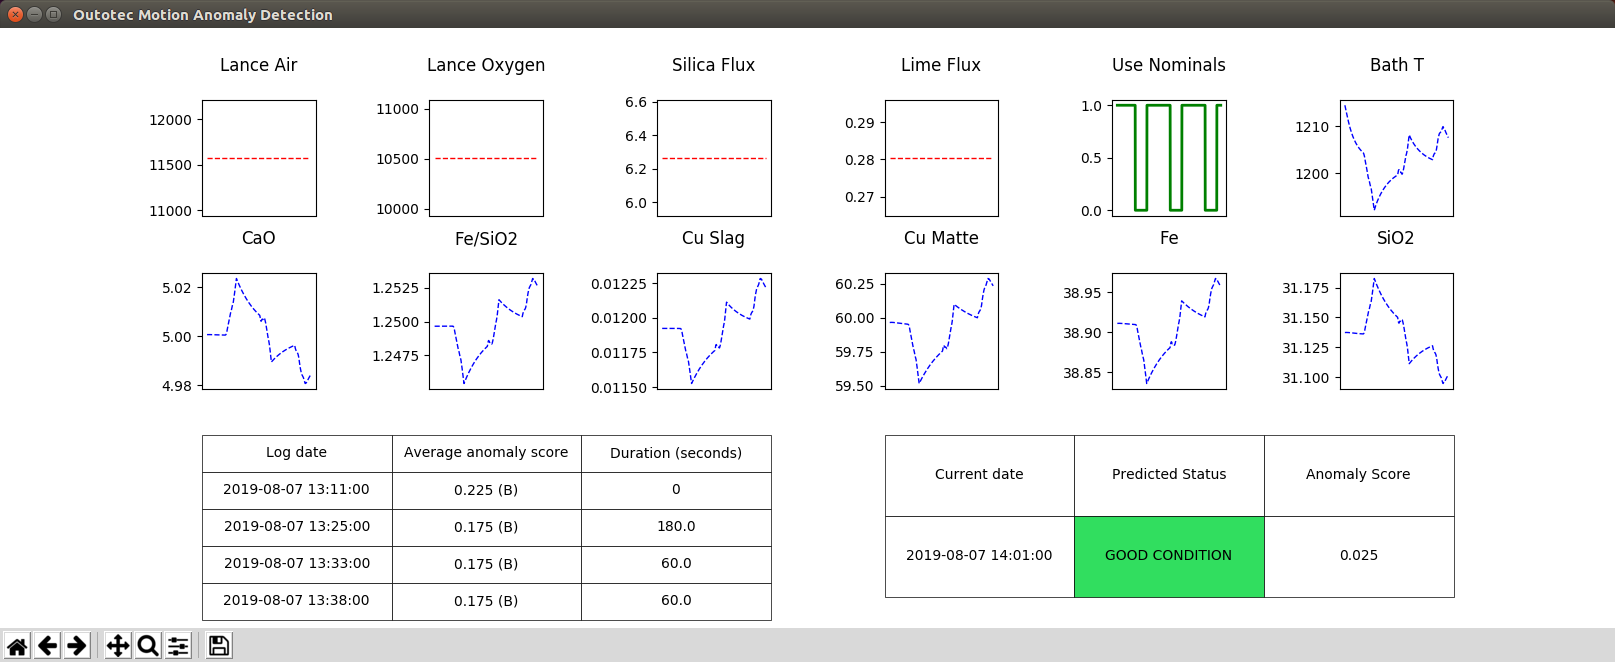
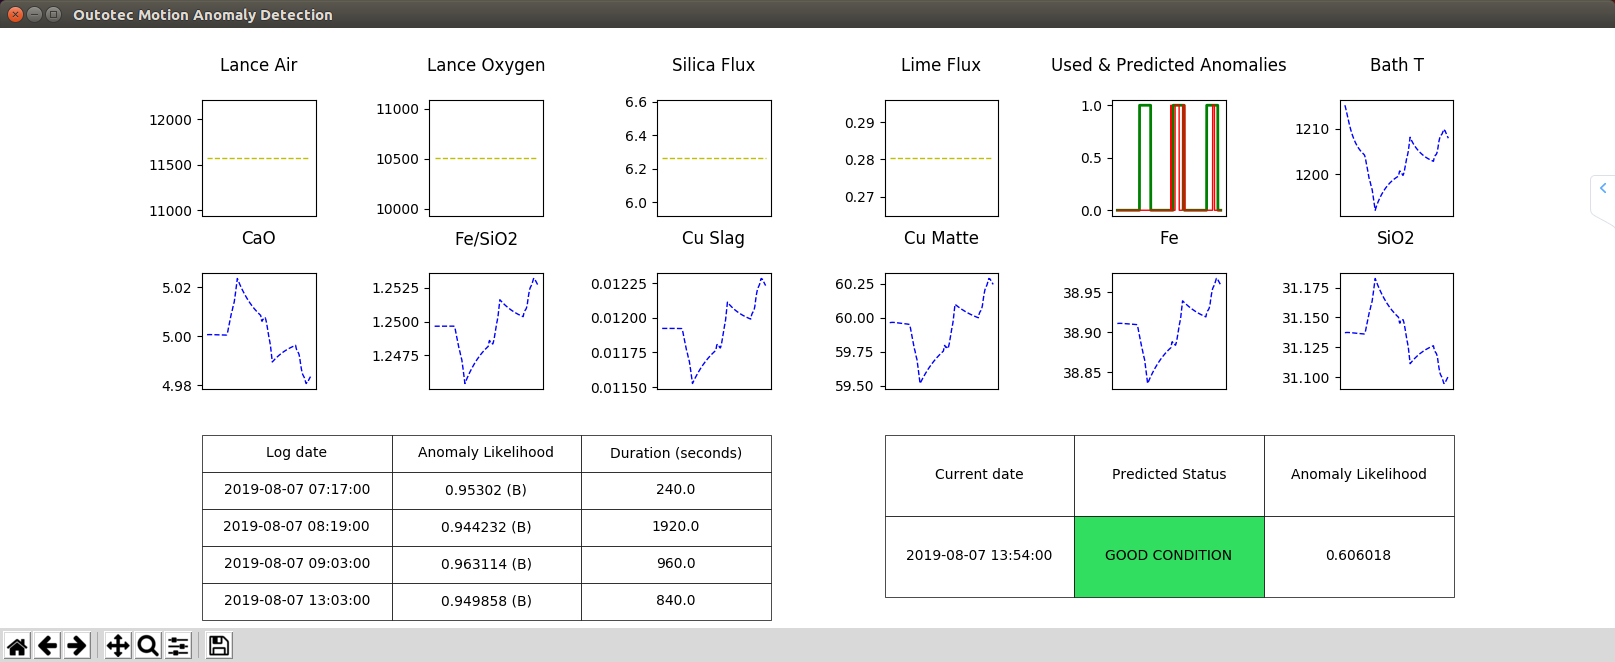
Update ChemistHTM V1.3

diff --git a/ChemicalHTM.py b/ChemicalHTM.py
@@ -73,6 +73,14 @@ def createTemporalAnomaly_chemical(recordParams, spatialParams, temporalParams, 
     network.link("spatialPoolerRegion", "temporalPoolerRegion", "UniformLink", "")
     network.link("temporalPoolerRegion", "spatialPoolerRegion", "UniformLink", "",
                  srcOutput="topDownOut", destInput="topDownIn")
+    
+    # Add the AnomalyLikelihoodRegion on top of the TMRegion
+    network.addRegion("anomalyLikelihoodRegion", "py.AnomalyLikelihoodRegion", json.dumps({}))
+    network.link("temporalPoolerRegion", "anomalyLikelihoodRegion", "UniformLink",
+                 "", srcOutput="anomalyScore", destInput="rawAnomalyScore")
+    network.link("sensor", "anomalyLikelihoodRegion", "UniformLink", "",
+                 srcOutput="sourceOut", destInput="metricValue")    
+
 
     spatialPoolerRegion = network.regions["spatialPoolerRegion"]
 
@@ -165,7 +173,7 @@ def plot_chemical_data(Bath_T, CaO, Fe_SiO2, Cu_Slag, Cu_Matte, Fe, SiO2, date, 
         return Bath_T, CaO, Fe_SiO2, Cu_Slag, Cu_Matte, Fe, SiO2, date
 
     
-def plot_input_data(lance_air, lance_oxy, silica_flux, lime_flux, use_anomalies, date, buffer_size=800):
+def plot_input_data(lance_air, lance_oxy, silica_flux, lime_flux, use_anomalies, date, buffer_size=899):
     if len(lance_air) > buffer_size and len(lance_oxy) > buffer_size and len(silica_flux) > buffer_size and len(lime_flux) > buffer_size and len(use_anomalies) > buffer_size:
         new_lance_air = lance_air[-buffer_size:]
         new_lance_oxy = lance_oxy[-buffer_size:]
@@ -234,7 +242,7 @@ def evaluation(use_nominals, status_records):
     
 def runNetwork(network, date1, input_data_file):
     sensorRegion = network.regions["sensor"]
-    temporalPoolerRegion = network.regions["temporalPoolerRegion"]
+    anomalyLikelihoodRegion = network.regions["anomalyLikelihoodRegion"]
 
     # output data
     date = []
@@ -292,7 +300,7 @@ def runNetwork(network, date1, input_data_file):
     
     for i in xrange(_NUM_RECORDS):
         network.run(1)
-        anomalyScore = temporalPoolerRegion.getOutputData("anomalyScore")[0]
+        anomalyLikelihood = anomalyLikelihoodRegion.getOutputData("anomalyLikelihood")[0]
         pre1_1 = sensorRegion.getOutputData("sourceOut")[0]
         pre2_1 = sensorRegion.getOutputData("sourceOut")[1]
         pre3_1 = sensorRegion.getOutputData("sourceOut")[2]
@@ -315,9 +323,7 @@ def runNetwork(network, date1, input_data_file):
         plt_silica_flux.append(silica_flux[i])
         plt_lime_flux.append(lime_flux[i])
         plt_use_anomalies.append(use_anomalies[i])
-        
-        average_anomalyScore = anomalyScore
-        
+                
         date.append(date1[i])
 
 #        print "Date: ", date1[i], "  Chemical Anomaly Score:", anomalyScore
@@ -329,7 +335,7 @@ def runNetwork(network, date1, input_data_file):
 #        print "        Fe:       \t", pre6_1
 #        print "        SiO2:     \t", pre7_1
 
-        if average_anomalyScore < 0.12:
+        if anomalyLikelihood < 0.85:
 #            print "        \033[1;42m GOOD CONDITION \033[0m"
             previous_result = 'G'
             status_records.append('G')
@@ -337,9 +343,9 @@ def runNetwork(network, date1, input_data_file):
             status_table_content[0][0] = date1[i]
             status_table_content[0][1] = 'GOOD CONDITION'
             status_table_color[0][1] = '#31de5f'
-            status_table_content[0][2] = anomalyScore
+            status_table_content[0][2] = anomalyLikelihood
             status_table_color[0][2] = 'w'
-        elif average_anomalyScore > 0.12 and average_anomalyScore < 0.165:
+        elif anomalyLikelihood >=0.85 and anomalyLikelihood < 0.94:
 #            print "        \033[1;43m WARNING CAUTION \033[0m"
             previous_result = 'W'
             status_records.append('W')
@@ -347,7 +353,7 @@ def runNetwork(network, date1, input_data_file):
             status_table_content[0][0] = date1[i]
             status_table_content[0][1] = 'WARNING CAUTION'
             status_table_color[0][1] = '#ff9e36'
-            status_table_content[0][2] = anomalyScore
+            status_table_content[0][2] = anomalyLikelihood
             status_table_color[0][2] = 'w'
         else:
             if previous_result == 'D':
@@ -357,31 +363,31 @@ def runNetwork(network, date1, input_data_file):
 
             if table_content[0][0] == ' ' and contineous_flag == False:
                 table_content[0][0] = date1[i]
-                table_content[0][1] = str(average_anomalyScore) + ' (B)'
+                table_content[0][1] = str(anomalyLikelihood) + ' (B)'
                 table_content[0][2] = float(0)
             elif table_content[1][0] == ' ' and contineous_flag == False:
                 table_content[1][0] = date1[i]
-                table_content[1][1] = str(average_anomalyScore) + ' (B)'
+                table_content[1][1] = str(anomalyLikelihood) + ' (B)'
                 table_content[1][2] = float(0)
             elif table_content[2][0] == ' ' and contineous_flag == False:
                 table_content[2][0] = date1[i]
-                table_content[2][1] = str(average_anomalyScore) + ' (B)'
+                table_content[2][1] = str(anomalyLikelihood) + ' (B)'
                 table_content[2][2] = float(0)
             elif table_content[3][0] == ' ' and contineous_flag == False:
                 table_content[3][0] = date1[i]
-                table_content[3][1] = str(average_anomalyScore) + ' (B)'
+                table_content[3][1] = str(anomalyLikelihood) + ' (B)'
                 table_content[3][2] = float(0)         
             elif table_content[1][0] == ' ' and contineous_flag == True:
                 table_content[0][0] = date1[i]
-                table_content[0][1] = str(average_anomalyScore) + ' (B)'
+                table_content[0][1] = str(anomalyLikelihood) + ' (B)'
                 table_content[0][2] += seconds_difference(date1[i-1], date1[i])
             elif table_content[2][0] == ' ' and contineous_flag == True:
                 table_content[1][0] = date1[i]
-                table_content[1][1] = str(average_anomalyScore) + ' (B)'
+                table_content[1][1] = str(anomalyLikelihood) + ' (B)'
                 table_content[1][2] += seconds_difference(date1[i-1], date1[i])
             elif table_content[3][0] == ' ' and contineous_flag == True:
                 table_content[2][0] = date1[i]
-                table_content[2][1] = str(average_anomalyScore) + ' (B)'
+                table_content[2][1] = str(anomalyLikelihood) + ' (B)'
                 table_content[2][2] += seconds_difference(date1[i-1], date1[i])
             elif table_content[0][0] != ' ' and table_content[1][0] != ' ' and table_content[2][0] != ' ' and table_content[3][0] != ' ' and contineous_flag == False:
                 table_content[0][0] = table_content[1][0]
@@ -397,11 +403,11 @@ def runNetwork(network, date1, input_data_file):
                 table_content[2][2] = table_content[3][2]
                 
                 table_content[3][0] = date1[i]
-                table_content[3][1] = str(average_anomalyScore) + ' (B)'
+                table_content[3][1] = str(anomalyLikelihood) + ' (B)'
                 table_content[3][2] = 0
             elif table_content[0][0] != ' ' and table_content[1][0] != ' ' and table_content[2][0] != ' ' and table_content[3][0] != ' ' and contineous_flag == True:                
                 table_content[3][0] = date1[i]
-                table_content[3][1] = str(average_anomalyScore) + ' (B)'
+                table_content[3][1] = str(anomalyLikelihood) + ' (B)'
                 table_content[3][2] += seconds_difference(date1[i-1], date1[i])   
 #            print "        \033[1;41m DANGEROUS CONDITION \033[0m"
             previous_result = 'D'
@@ -410,7 +416,7 @@ def runNetwork(network, date1, input_data_file):
             status_table_content[0][0] = date1[i]
             status_table_content[0][1] = 'BAD CONDITION'
             status_table_color[0][1] = '#db4439'
-            status_table_content[0][2] = anomalyScore
+            status_table_content[0][2] = anomalyLikelihood
             status_table_color[0][2] = 'w'
 #        print "\n"        
 
@@ -485,7 +491,7 @@ def runNetwork(network, date1, input_data_file):
         table = ax13.table(
                 cellText = table_content,
                 cellLoc = 'center',
-                colLabels = ['Log date', 'Average anomaly score', 'Duration (seconds)'],
+                colLabels = ['Log date', 'Anomaly Likelihood', 'Duration (seconds)'],
                 bbox=[0, -0.5, 5, 1.6]
                 )
         table.scale(6, 6)
@@ -500,7 +506,7 @@ def runNetwork(network, date1, input_data_file):
                 cellText = status_table_content,
                 cellColours = status_table_color,
                 cellLoc = 'center',
-                colLabels = ['Current date', 'Predicted Status', 'Anomaly Score'],
+                colLabels = ['Current date', 'Predicted Status', 'Anomaly Likelihood'],
                 bbox=[0, -0.3, 5, 1.4]
                 )
         table.scale(5.5, 5.5)
@@ -511,6 +517,7 @@ def runNetwork(network, date1, input_data_file):
             
         # print real-time evaluation results
         u1_top_1, u1_top_2, u0_top_1, u0_top_2 = evaluation(plt_use_anomalies, status_records)
+        print "anomalyLikelihood: ", anomalyLikelihood
         print "When < Use nominals = 1 >, top-1: ", u1_top_1, " ; top-2: ", u1_top_2
         print "When < Use nominals = 0 >, top-1: ", u0_top_1, " ; top-2: ", u0_top_2
         print "\n"
